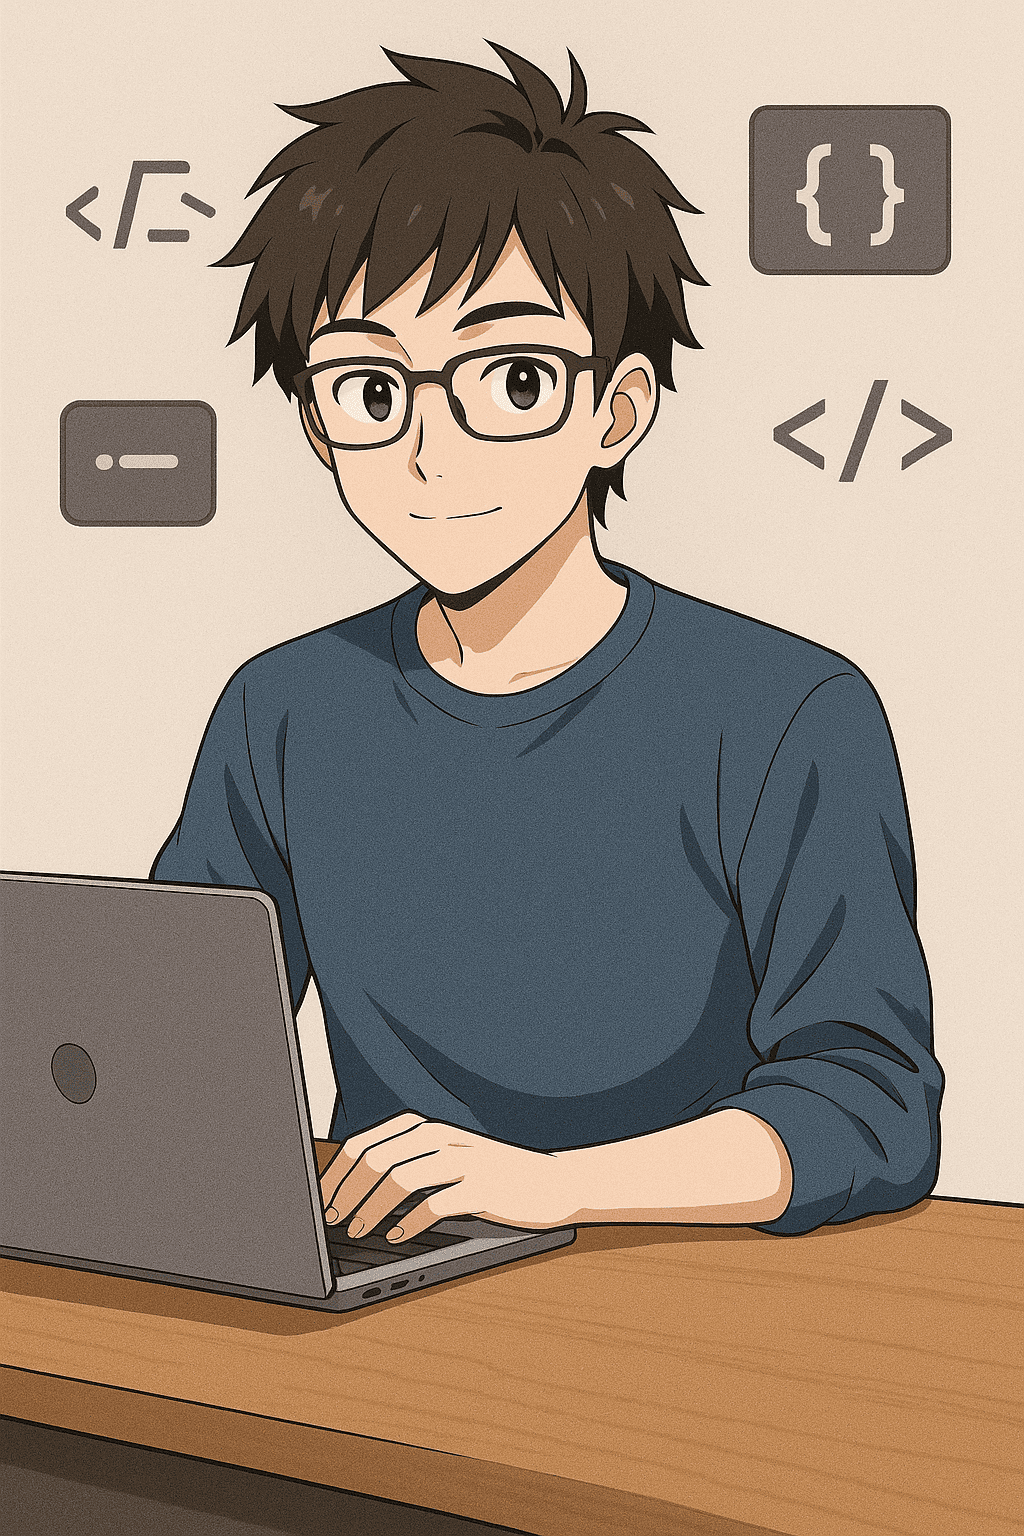
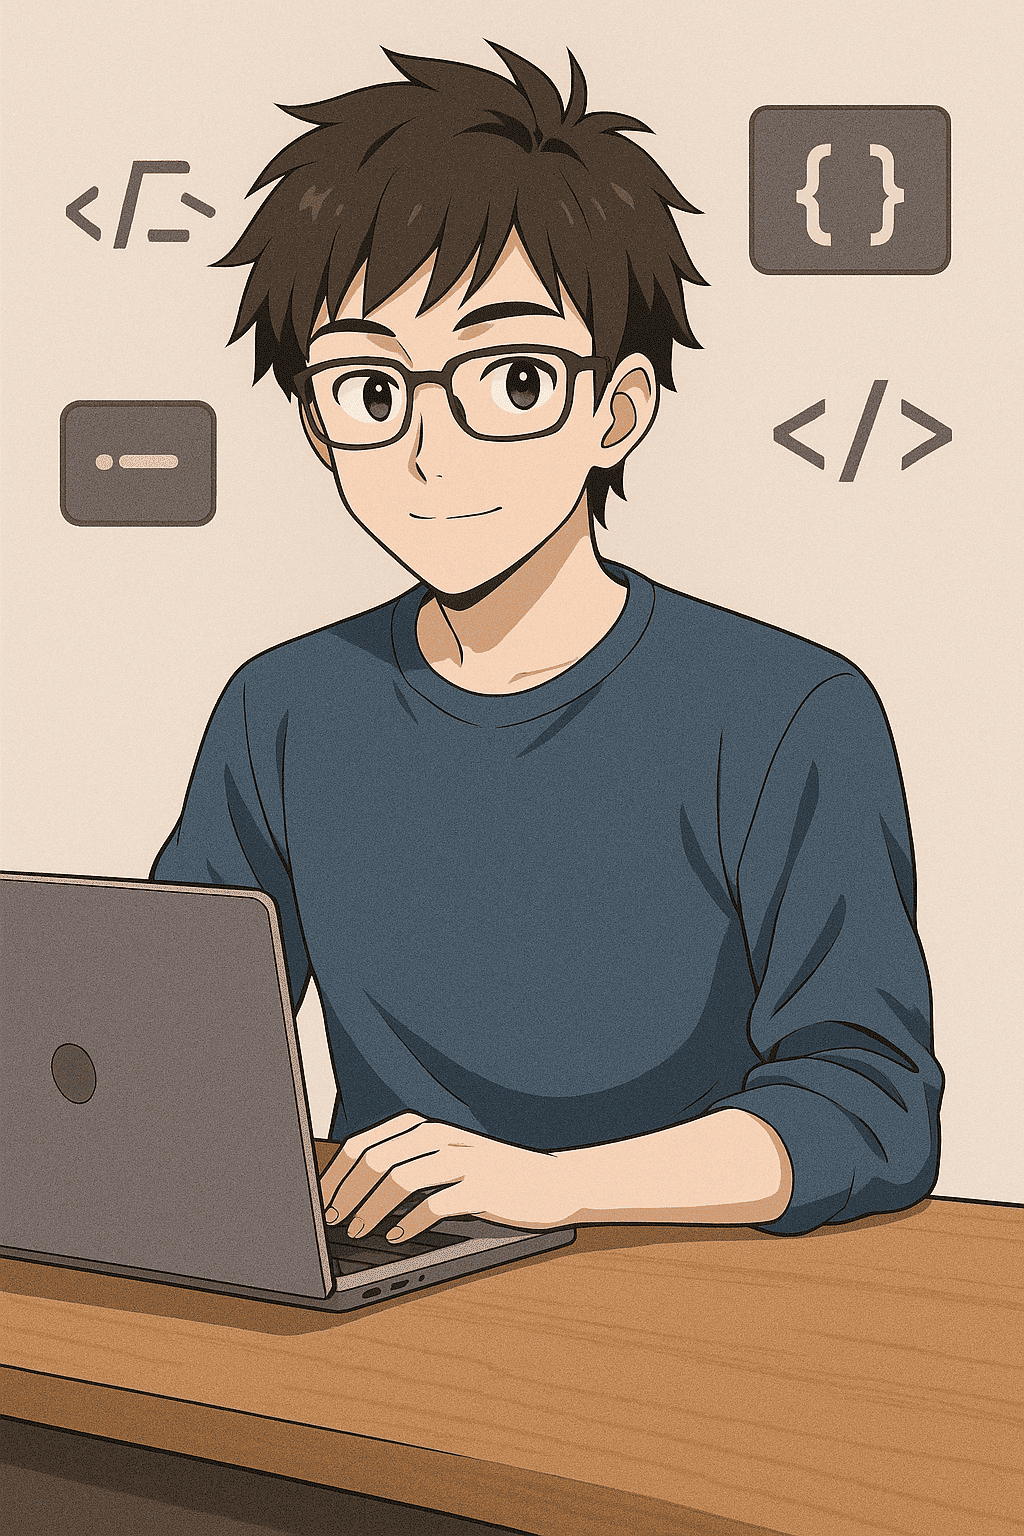
image compression

diff --git a/frontend/src/pages/Home.js b/frontend/src/pages/Home.js
@@ -436,14 +436,8 @@ const Home = () => {
               className="relative flex-1 flex justify-center items-center min-h-[400px]"
             >
               <div className="relative w-[280px] h-[280px] md:w-[400px] md:h-[400px]">
-                {/* Decorative Elements */}
-                <div className="absolute inset-0 bg-gradient-to-tr from-primary/20 to-accent/20 rounded-full blur-3xl" />
-                <div className="absolute -inset-0.5 bg-gradient-to-r from-primary/50 to-accent/50 rounded-full opacity-20 animate-pulse" />
-                
-                {/* Spark Animation */}
-                <div className="absolute -inset-2">
-                  <CircularSparkPath />
-                </div>
+                {/* Simple gradient background */}
+                <div className="absolute inset-0 bg-gradient-to-tr from-primary/10 to-accent/10 rounded-full" />
                 
                 {/* Image */}
                 <motion.div
@@ -457,8 +451,8 @@ const Home = () => {
                     className="w-full h-full object-cover object-center"
                   />
                   
-                  {/* Overlay gradient */}
-                  <div className="absolute inset-0 bg-gradient-to-t from-black/20 to-transparent" />
+                  {/* Subtle overlay gradient */}
+                  <div className="absolute inset-0 bg-gradient-to-t from-black/10 to-transparent" />
                 </motion.div>
 
                 {/* Code-like decorative elements */}
